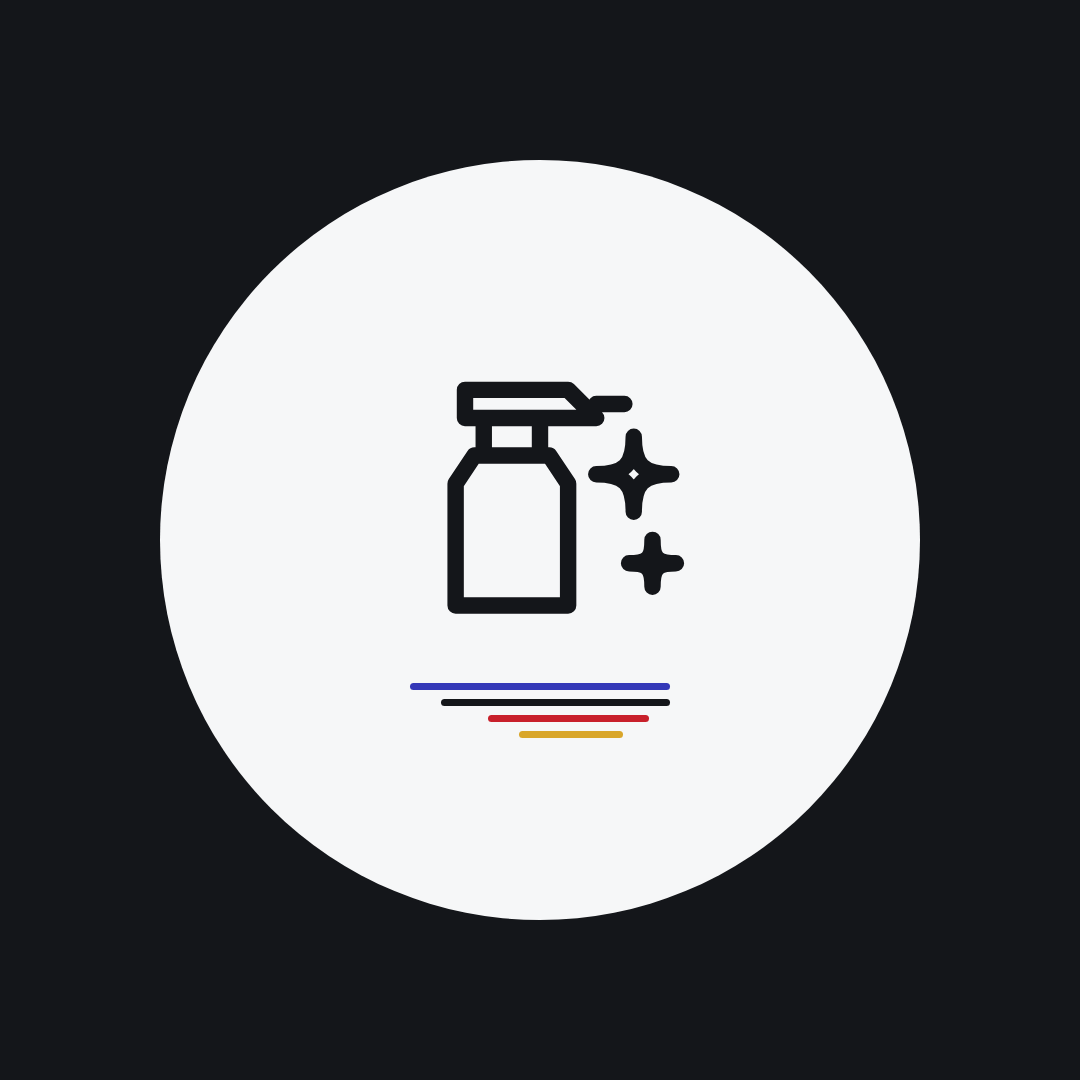
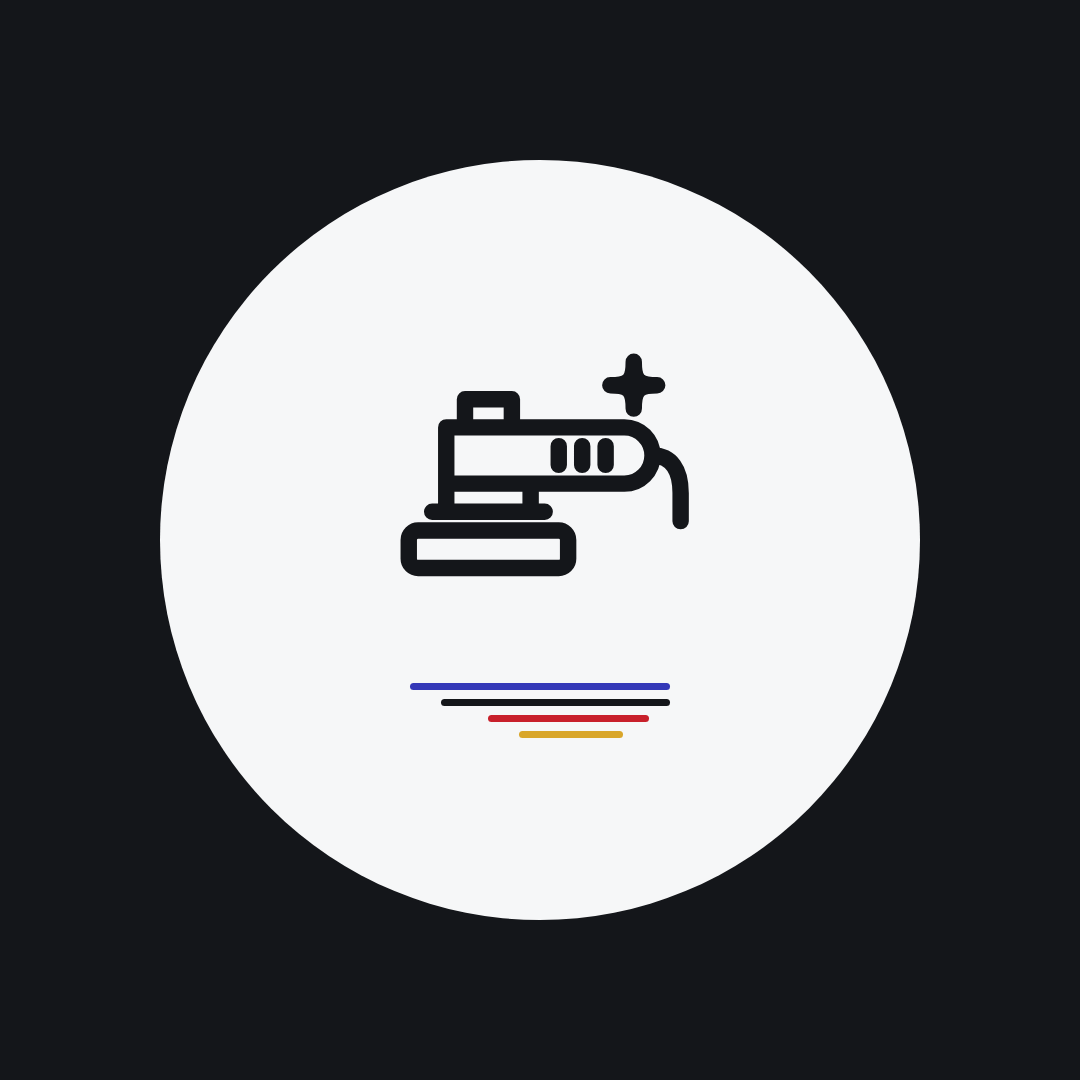
Destacada Detailing: icono de máquina pulidora (pedido del dueño)
Claude-Session: https://claude.ai/code/session_01Waia73eHNWtSrif5AzmwHD

Changed region(s): [[0.3667, 0.3056, 0.6417, 0.5806]]

diff --git a/herramientas/build/generar-posts.js b/herramientas/build/generar-posts.js
@@ -87,7 +87,7 @@ const DESTACADAS = [
   ["vende-el-tuyo", "Vende el tuyo", "M32 8v32m-14-14 14-14 14 14M10 52h44"],
   ["guias", "Guías", "M14 8h28l10 10v38H14zm28 0v10h10M22 30h20m-20 10h20"],
   ["como-trabajamos", "Cómo trabajamos", "M28 12a16 16 0 1 0 0 32 16 16 0 0 0 0-32zm12 28 14 14"],
-  ["detailing", "Detailing", "M16 10h22l6 6H16zm28 3h6m-30 3v8h12v-8m-14 8h16l4 6v26H14V30zM52 20c0 6 2 8 8 8-6 0-8 2-8 8 0-6-2-8-8-8 6 0 8-2 8-8zm4 22c0 4 1 5 5 5-4 0-5 1-5 5 0-4-1-5-5-5 4 0 5-1 5-5z"],
+  ["detailing", "Detailing", "M12 18h38a6 6 0 0 1 0 12H12zm24 4v4m5-4v4m5-4v4M12 30h18v6H12zM6 40h30a2 2 0 0 1 2 2v4a2 2 0 0 1-2 2H6a2 2 0 0 1-2-2v-4a2 2 0 0 1 2-2zm3-4h24M16 18v-6h10v6m30 6c4 0 6 3 6 8v6M52 4c0 4 1 5 5 5-4 0-5 1-5 5 0-4-1-5-5-5 4 0 5-1 5-5z"],
   ["proyectos", "Proyectos", '<svg viewBox="0 0 100 64"><g fill="none" stroke="#14161a" stroke-width="3" stroke-linecap="round" stroke-linejoin="round"><path d="M6 48V38l2-3h14l10-11h26l9 10 19 3 8 3v5l-3 3h-7a8 8 0 0 0-16 0H32a8 8 0 0 0-16 0z"/><path d="M27 34l7-7h11v7z"/><path d="M49 34v-7h8l6 7z"/><path d="M3 27h20M8 27l1 8M18 27l-1 8"/><circle cx="24" cy="48" r="5.6"/><circle cx="76" cy="48" r="5.6"/><circle cx="24" cy="48" r="1.2" fill="#14161a"/><circle cx="76" cy="48" r="1.2" fill="#14161a"/><g transform="translate(74 3) scale(.92)" stroke-width="3.26"><path d="M14.7 6.3a1 1 0 0 0 0 1.4l1.6 1.6a1 1 0 0 0 1.4 0l3.77-3.77a6 6 0 0 1-7.94 7.94l-6.91 6.91a2.12 2.12 0 0 1-3-3l6.91-6.91a6 6 0 0 1 7.94-7.94l-3.76 3.76z"/></g></g></svg>'],
 ];
 
